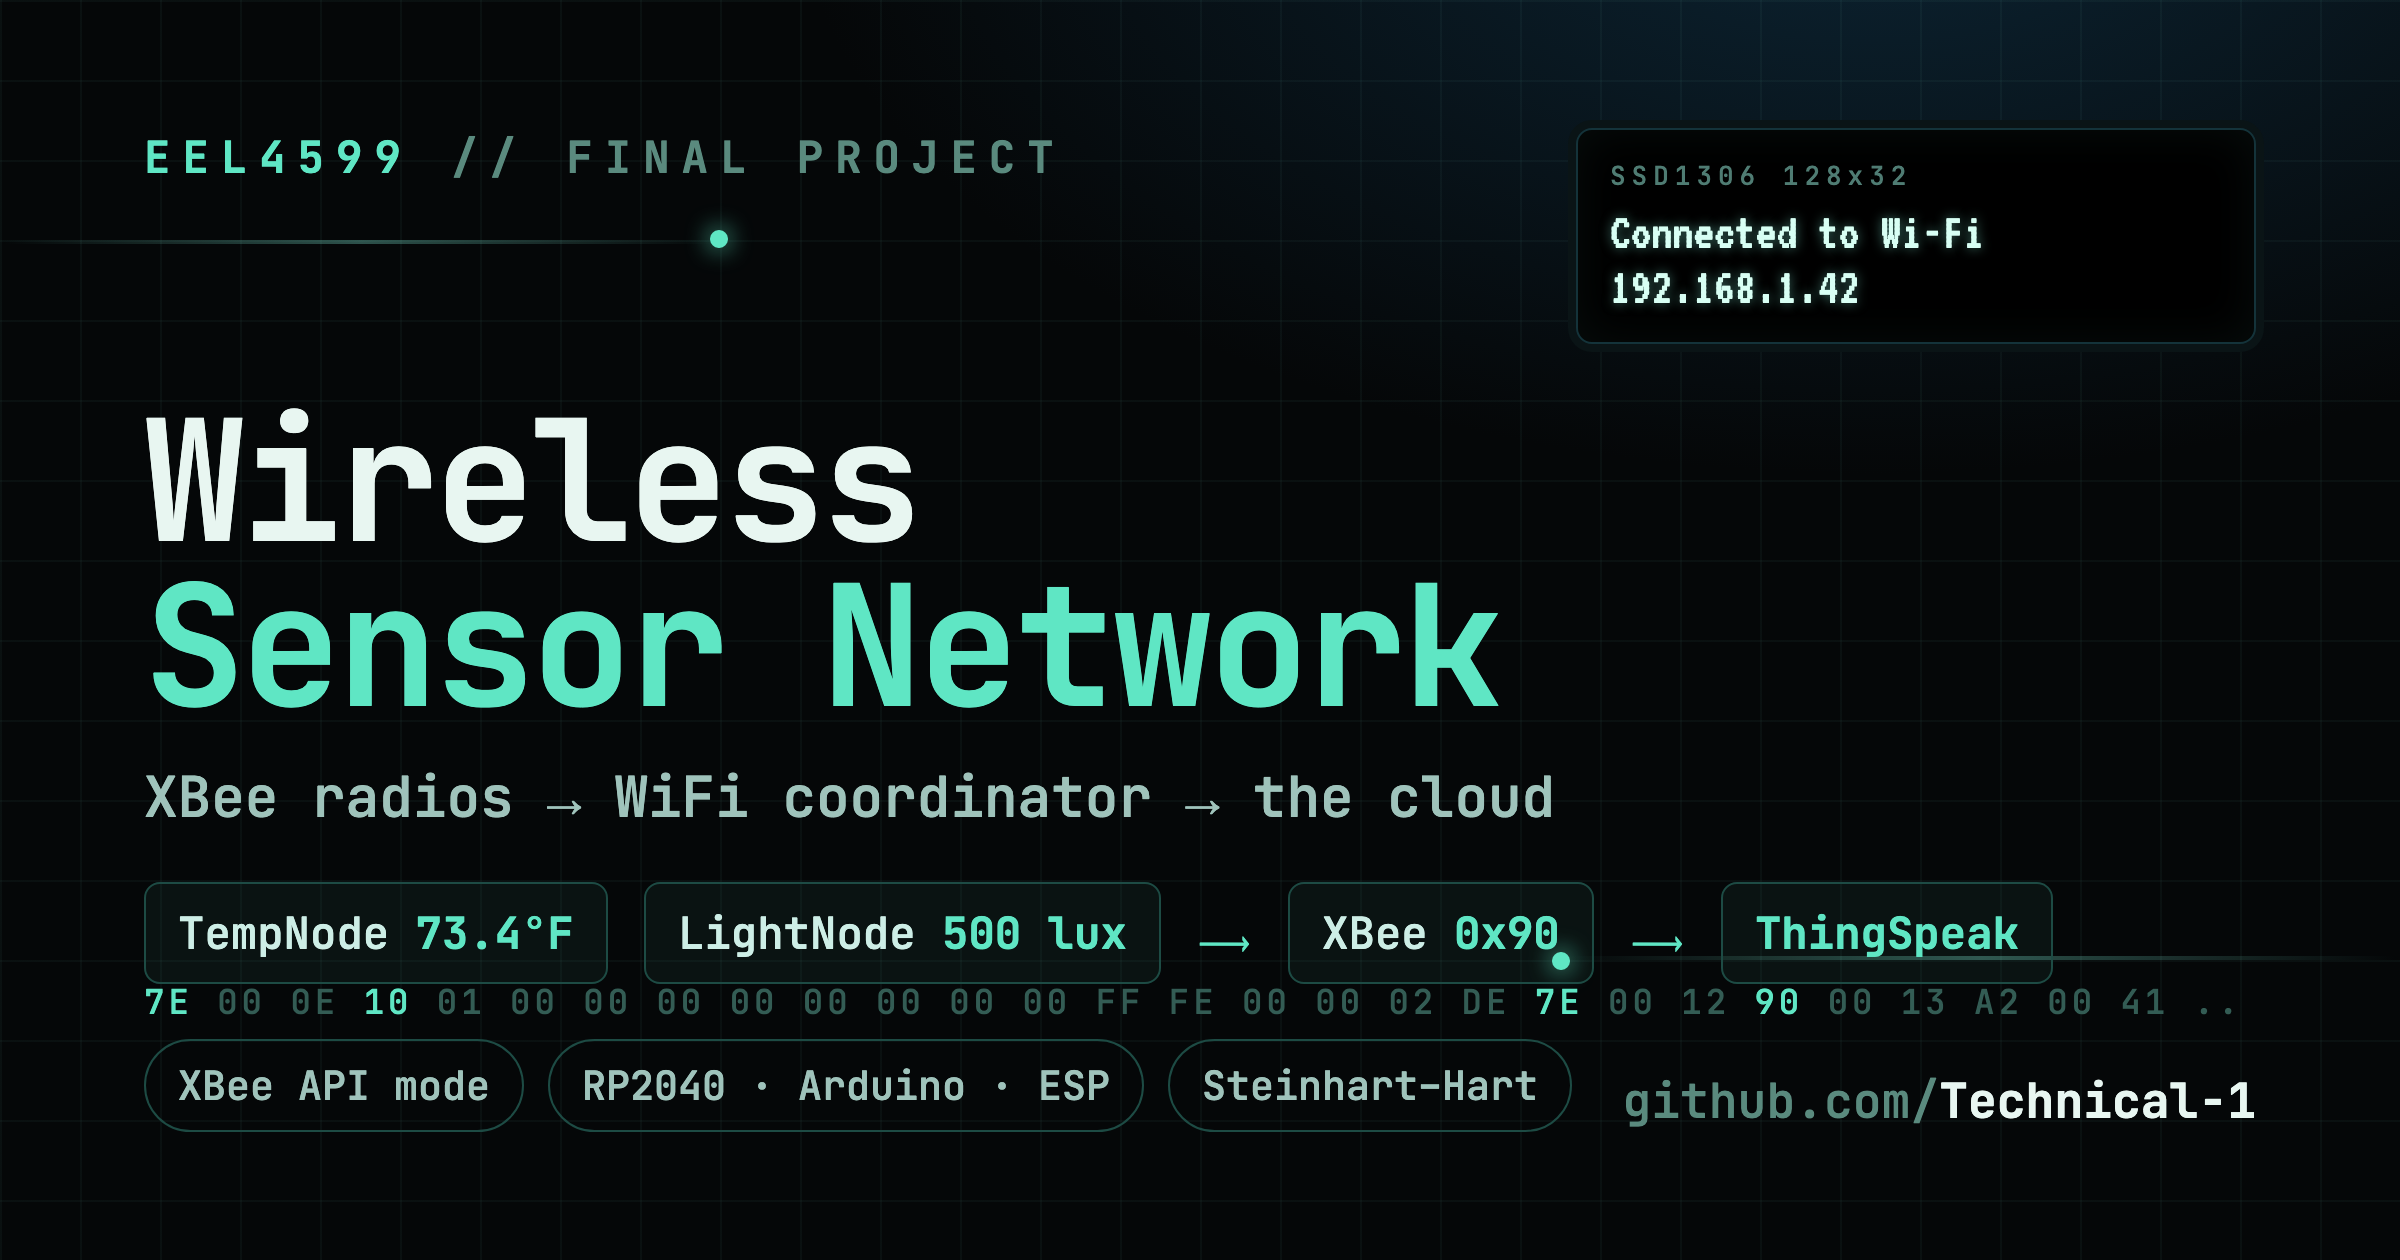
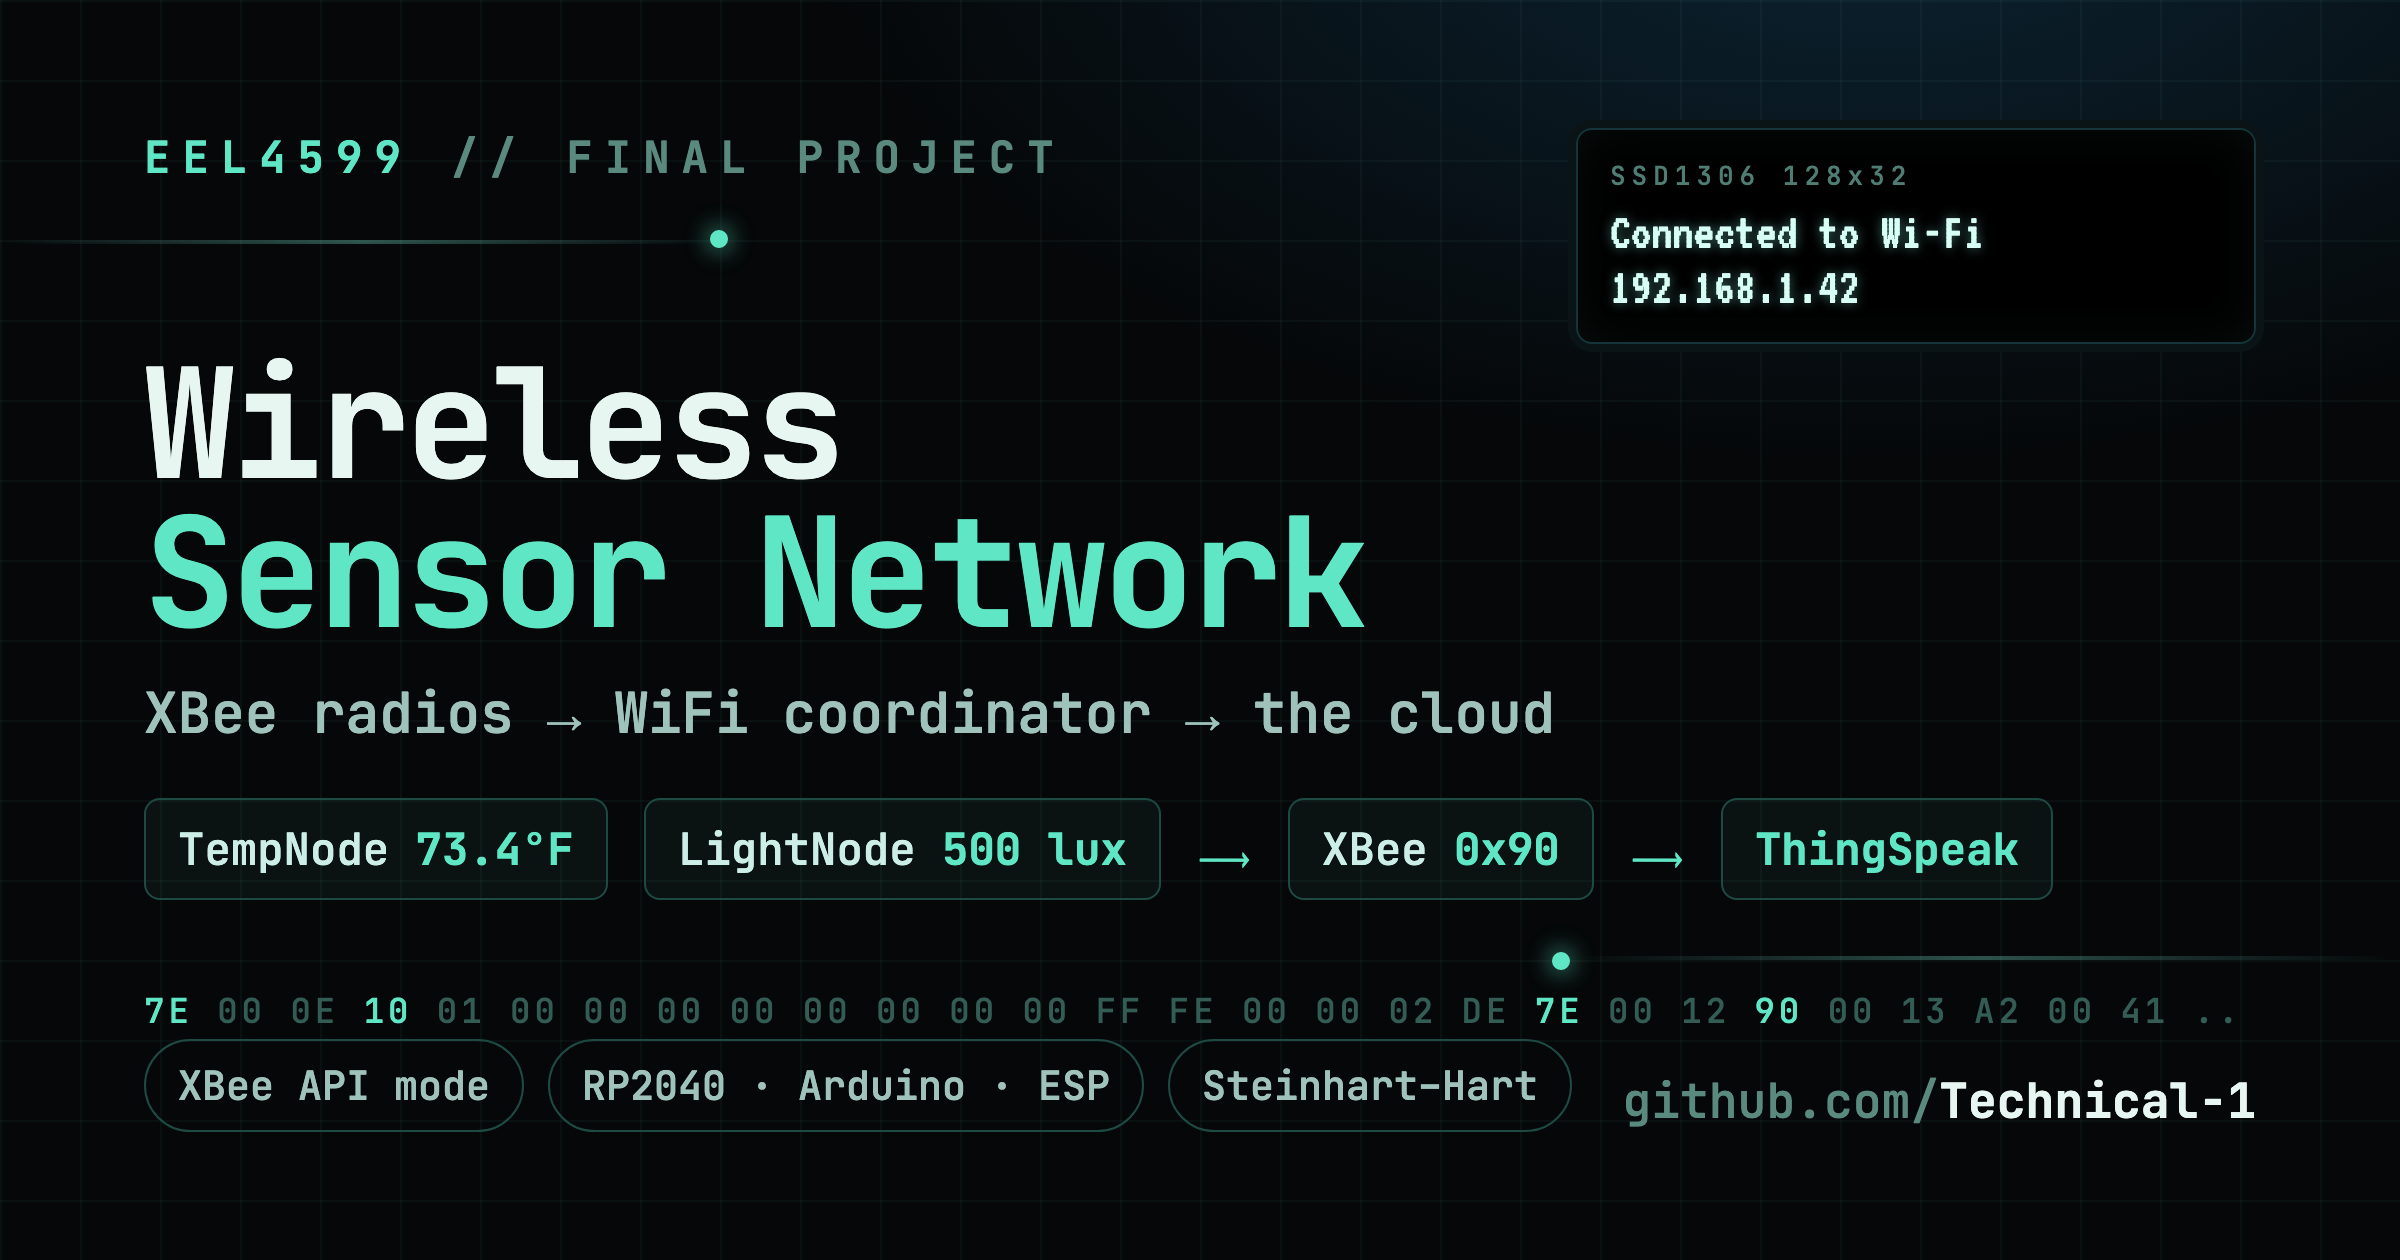
assets: add spacing between flow row and hex strip in preview

Changed region(s): [[0.0625, 0.2786, 0.6562, 0.5881], [0.0625, 0.619, 0.9062, 0.8048]]

diff --git a/.portfolio/og-home.html b/.portfolio/og-home.html
@@ -58,8 +58,8 @@
     .oled .lbl { font-size: 13px; letter-spacing: 3px; color: #4f7c73; font-family: 'JetBrains Mono'; margin-bottom: 6px; }
 
     h1 {
-      font-size: 84px; line-height: 0.98; font-weight: 700; letter-spacing: -2px;
-      margin-bottom: 16px;
+      font-size: 76px; line-height: 0.98; font-weight: 700; letter-spacing: -2px;
+      margin-bottom: 14px;
     }
     h1 .accent { color: #5fe6c4; }
     .tagline { font-size: 28px; color: #9fc3bb; font-weight: 500; }
@@ -77,7 +77,7 @@
     .url b { color: #e8f6f1; }
 
     /* hex frame strip */
-    .hex { position: absolute; bottom: 118px; left: 72px; right: 72px;
+    .hex { margin-top: 44px;
       font-size: 17px; letter-spacing: 2px; color: #335c54; white-space: nowrap; overflow: hidden; }
     .hex .hl { color: #5fe6c4; }
   </style>
@@ -109,6 +109,7 @@
           <span class="arrow">⟶</span>
           <span class="node"><b>ThingSpeak</b></span>
         </div>
+        <div class="hex"><span class="hl">7E</span> 00 0E <span class="hl">10</span> 01 00 00 00 00 00 00 00 00 FF FE 00 00 02 DE <span class="hl">7E</span> 00 12 <span class="hl">90</span> 00 13 A2 00 41 .. .. .. C8 02 DE</div>
       </div>
 
       <div class="bottom">
@@ -120,8 +121,6 @@
         <div class="url">github.com/<b>Technical-1</b></div>
       </div>
     </div>
-
-    <div class="hex"><span class="hl">7E</span> 00 0E <span class="hl">10</span> 01 00 00 00 00 00 00 00 00 FF FE 00 00 02 DE <span class="hl">7E</span> 00 12 <span class="hl">90</span> 00 13 A2 00 41 .. .. .. C8 02 DE</div>
   </div>
 </body>
 </html>
